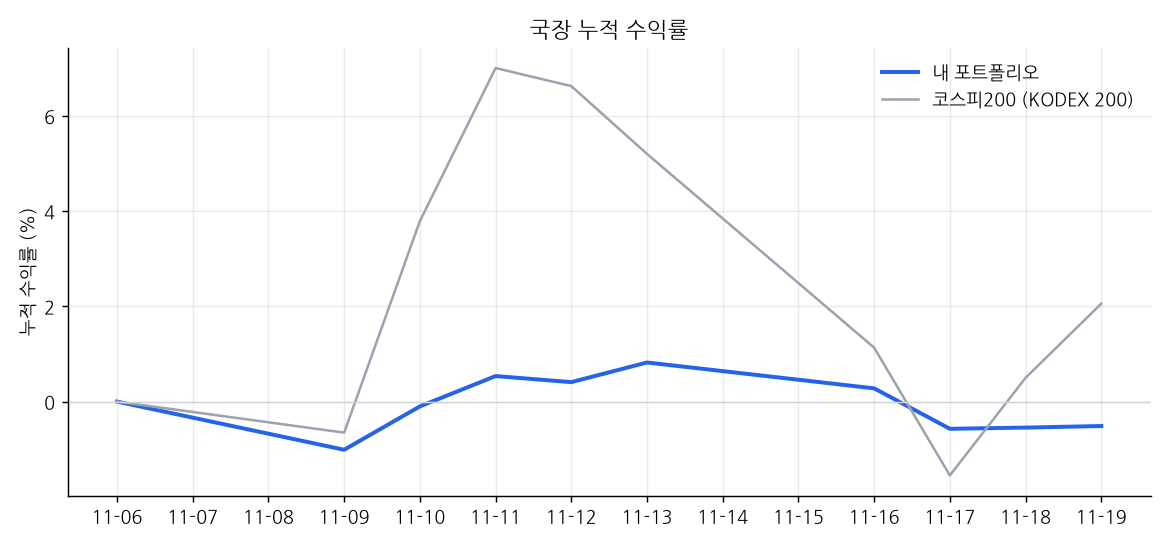
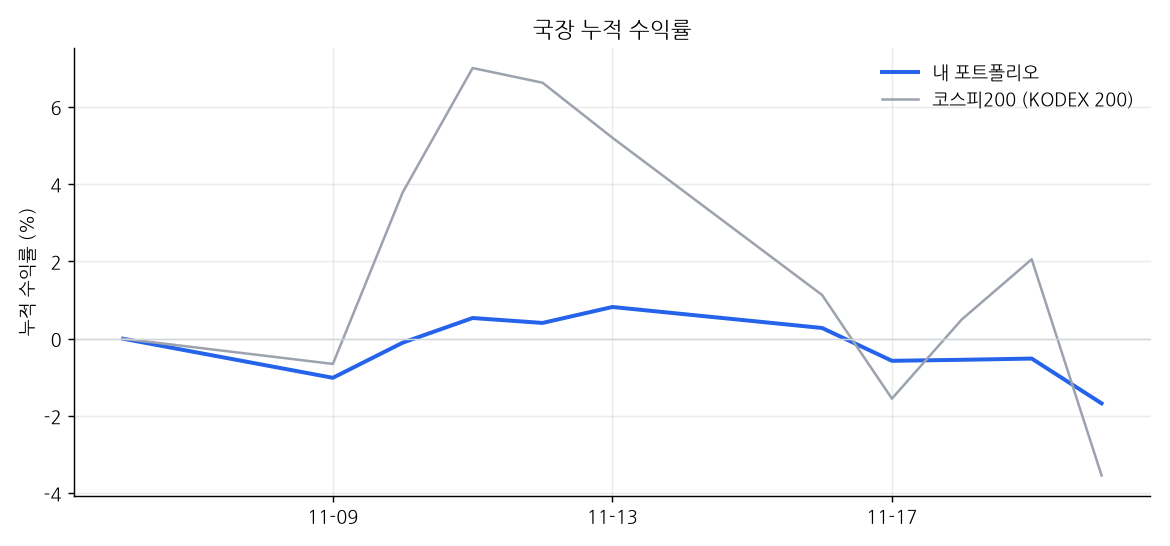
dashboard 2026-11-20 16:00

diff --git a/README.md b/README.md
@@ -1,11 +1,11 @@
 # 📈 내 자동매매 포트폴리오
 
-_마지막 갱신: 2026-11-20 07:30 (KST) · 라즈베리파이 자동 업데이트_
+_마지막 갱신: 2026-11-20 16:00 (KST) · 라즈베리파이 자동 업데이트_
 
 | 트랙 | 시작일 | 누적 수익률 | 비교 지수 | 초과 | 최근 1개월 | 국면 |
 |---|---|---|---|---|---|---|
 | 미장 | 2026-11-05 | **-0.12%** | -2.34% | +2.21% | - | BULL |
-| 국장 | 2026-11-06 | **-0.51%** | +2.06% | -2.57% | - | BEAR |
+| 국장 | 2026-11-06 | **-1.67%** | -3.54% | +1.87% | - | BEAR |
 
 ## 미장
 
@@ -33,15 +33,15 @@ _마지막 갱신: 2026-11-20 07:30 (KST) · 라즈베리파이 자동 업데이
 
 | 종목 | 비중 |
 |---|---|
-| KODEX 단기채권 | 49.8% |
-| 현금 | 14.6% |
-| 하나금융지주 | 5.2% |
-| 신한지주 | 5.0% |
-| 현대모비스 | 4.8% |
-| 셀트리온 | 4.7% |
-| SK스퀘어 | 4.5% |
-| 삼성물산 | 4.4% |
-| 삼성SDI | 4.3% |
+| KODEX 단기채권 | 50.4% |
+| 현금 | 14.7% |
+| 하나금융지주 | 5.3% |
+| 신한지주 | 5.1% |
+| 셀트리온 | 4.8% |
+| 현대모비스 | 4.6% |
+| 삼성물산 | 4.2% |
+| SK스퀘어 | 4.1% |
+| 삼성SDI | 4.1% |
 | 삼성바이오로직스 | 2.8% |
 
 ![국장 비중](charts/kr_weights.png)
